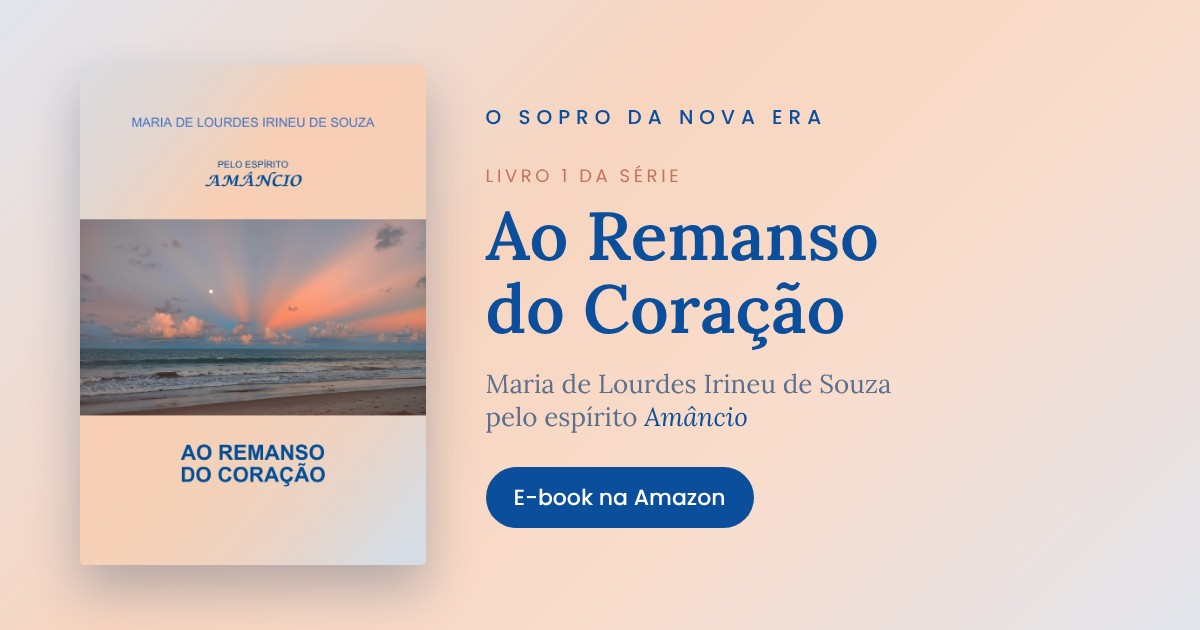
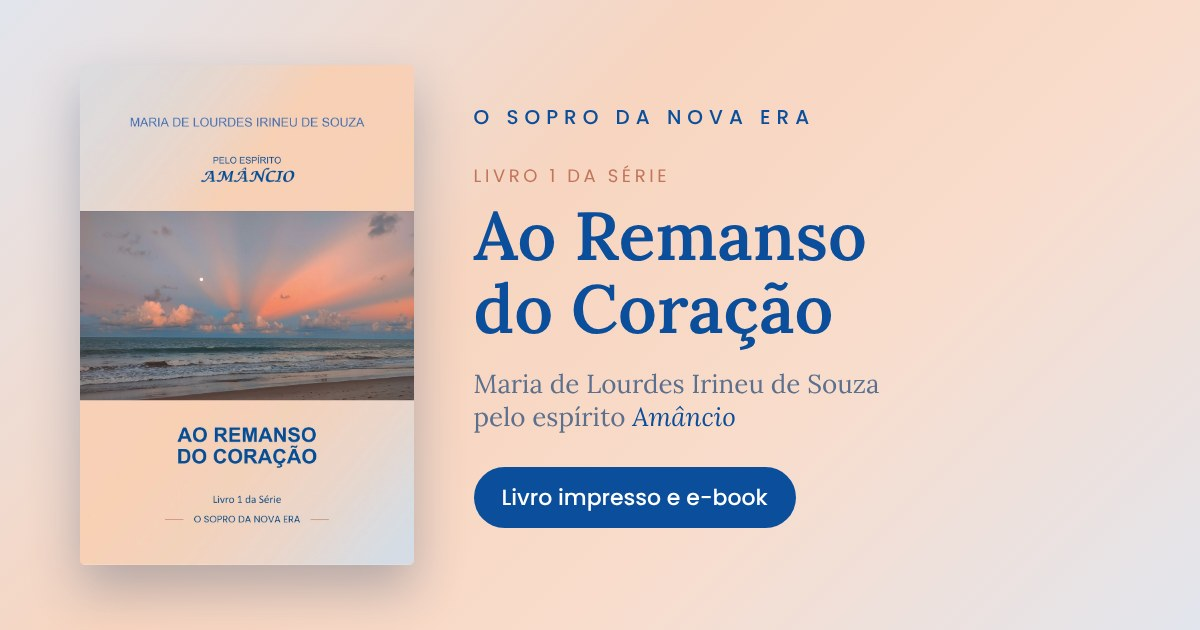
Nova capa com a série, botões do livro impresso, data na carta e ISBN do impresso
Claude-Session: https://claude.ai/code/session_01P1PDabk3PEquuoidtjMPVc

diff --git a/index.html b/index.html
@@ -4,11 +4,11 @@
 <meta charset="utf-8">
 <meta name="viewport" content="width=device-width, initial-scale=1, viewport-fit=cover">
 <title>O Sopro da Nova Era · Ao Remanso do Coração</title>
-<meta name="description" content="Ao Remanso do Coração, livro 1 da série psicografada O Sopro da Nova Era, de Maria de Lourdes Irineu de Souza, pelo espírito Amâncio. E-book disponível na Amazon.">
+<meta name="description" content="Ao Remanso do Coração, livro 1 da série psicografada O Sopro da Nova Era, de Maria de Lourdes Irineu de Souza, pelo espírito Amâncio. Livro impresso no Clube de Autores e na Estante Virtual, e e-book na Amazon.">
 <!-- Prévia do link no WhatsApp e redes -->
 <meta property="og:type" content="book">
 <meta property="og:title" content="Ao Remanso do Coração · O Sopro da Nova Era">
-<meta property="og:description" content="Livro 1 da série psicografada, pelo espírito Amâncio. E-book disponível na Amazon.">
+<meta property="og:description" content="Livro 1 da série psicografada, pelo espírito Amâncio. Livro impresso e e-book já disponíveis.">
 <meta property="og:image" content="https://osoprodanovaera.com.br/og.jpg">
 <meta property="og:image:width" content="1200">
 <meta property="og:image:height" content="630">
@@ -32,12 +32,21 @@
   "url": "https://osoprodanovaera.com.br/",
   "isPartOf": {"@type": "BookSeries", "name": "O Sopro da Nova Era"},
   "position": 1,
-  "workExample": {
-    "@type": "Book",
-    "bookFormat": "https://schema.org/EBook",
-    "isbn": "9786501738314",
-    "potentialAction": {"@type": "ReadAction", "target": "https://www.amazon.com.br/dp/B0FY4L74NP"}
-  }
+  "workExample": [
+    {
+      "@type": "Book",
+      "bookFormat": "https://schema.org/Paperback",
+      "isbn": "9786502439708",
+      "numberOfPages": 233,
+      "url": "https://clubedeautores.com.br/livro/ao-remanso-do-coracao"
+    },
+    {
+      "@type": "Book",
+      "bookFormat": "https://schema.org/EBook",
+      "isbn": "9786501738314",
+      "url": "https://www.amazon.com.br/dp/B0FY4L74NP"
+    }
+  ]
 }
 </script>
 
@@ -79,6 +88,16 @@ h1{font-family:var(--display);font-weight:600;color:var(--mar);font-size:clamp(2
   box-shadow:0 10px 24px rgba(11,79,156,.25);transition:transform .15s,box-shadow .15s}
 .cta:hover{transform:translateY(-2px);box-shadow:0 14px 28px rgba(11,79,156,.3)}
 .cta:focus-visible{outline:3px solid var(--coral);outline-offset:3px}
+.comprar{display:grid;gap:1.1rem;margin-top:2rem;justify-items:center}
+.comprar .grupo{display:grid;gap:.55rem;justify-items:center}
+.comprar .rotulo-g{font-family:var(--util);font-size:.75rem;letter-spacing:.2em;text-transform:uppercase;color:var(--coral)}
+.comprar .botoes{display:flex;flex-wrap:wrap;gap:.6rem;justify-content:center}
+.comprar .cta{margin-top:0;min-width:12rem;justify-content:center}
+.cta.sec{background:transparent;color:var(--mar);box-shadow:inset 0 0 0 1.5px var(--mar)}
+.cta.sec:hover{background:rgba(11,79,156,.07);box-shadow:inset 0 0 0 1.5px var(--mar)}
+.livro .comprar{justify-items:start}
+.livro .comprar .grupo{justify-items:start}
+.livro .comprar .botoes{justify-content:flex-start}
 .nota-cta{display:block;margin-top:.7rem;font-family:var(--util);font-size:.82rem;color:var(--suave)}
 section{padding-block:3rem}
 h2{font-family:var(--display);font-weight:500;font-style:italic;color:var(--mar);font-size:clamp(1.7rem,4.5vw,2.2rem);margin:0 0 1.5rem;text-wrap:balance}
@@ -131,8 +150,15 @@ footer{text-align:center;font-family:var(--util);font-size:.8rem;color:var(--sua
   <p class="rotulo">Livro 1 da série</p>
   <h1>Ao Remanso do Coração</h1>
   <p class="autoria">Maria de Lourdes Irineu de Souza · pelo espírito <em>Amâncio</em></p>
-  <a class="cta" href="https://www.amazon.com.br/dp/B0FY4L74NP" target="_blank" rel="noopener">Comprar o e-book na Amazon</a>
-  <span class="nota-cta">Leia no Kindle, no celular, no tablet ou no computador</span>
+  <div class="comprar">
+    <div class="grupo"><span class="rotulo-g">Livro impresso</span>
+      <div class="botoes">
+        <a class="cta" href="https://clubedeautores.com.br/livro/ao-remanso-do-coracao" target="_blank" rel="noopener">Clube de Autores</a>
+        <a class="cta" href="https://www.estantevirtual.com.br/livro/ao-remanso-do-coracao-TJ5-5781-000" target="_blank" rel="noopener">Estante Virtual</a>
+      </div></div>
+    <div class="grupo"><span class="rotulo-g">E-book</span>
+      <div class="botoes"><a class="cta sec" href="https://www.amazon.com.br/dp/B0FY4L74NP" target="_blank" rel="noopener">Amazon (Kindle)</a></div></div>
+  </div>
 </div>
 
 <section class="wrap" id="carta">
@@ -149,13 +175,13 @@ footer{text-align:center;font-family:var(--util);font-size:.8rem;color:var(--sua
     <hr class="sep">
     <p>Com essas palavras o espírito Amâncio apresenta <b class="t">O SOPRO DA NOVA ERA</b>, uma série psicografada de cinco livros, em que nos leva a refletir sobre as perspectivas individuais e coletivas do novo tempo, pautado nas transformações morais e evolutivas, no amor, na fé, na compreensão e na caridade, valores que orientam o caminho da fraternidade com Jesus.</p>
     <p><b class="t">AO REMANSO DO CORAÇÃO</b>, o primeiro livro da série, vem falar de amor e esperança. Convidar à renovação. Recordar o Mestre, suas palavras, ensinamentos, o seu impacto na transformação interior de cada ser, nos apontar novos caminhos, novo tempo.</p>
-    <p>Finalmente já está disponível em formato e-book.</p>
+    <p>Finalmente já está disponível em formato e-book e como livro físico.</p>
     <p>Os outros quatro volumes serão publicados a seguir.</p>
     <p>Serei grata se puderem ajudar a divulgar. Todo recurso obtido será destinado a Núcleos e atividades de estudo, evangelização, assistência e divulgação da doutrina espírita.</p>
     <p>E agradeço, especialmente, o incentivo e o apoio que tenho recebido para seguir nesta jornada.</p>
     <p class="citacao">“No caminho do amor a esperança é estrela-guia”, como diz Amâncio, e “uma obra de amor deve fluir com a certeza de que é o amor que flui por onde passar.”</p>
     <p>Que Jesus nos ilumine e possamos continuar a tarefa de amor e luz.</p>
-    <p style="margin-bottom:.2em"><em>João Pessoa,</em></p>
+    <p style="margin-bottom:.2em"><em>João Pessoa, 6 de novembro de 2026.</em></p>
     <p class="assina">Maria de Lourdes Irineu de Souza</p>
   </div>
 </section>
@@ -169,9 +195,18 @@ footer{text-align:center;font-family:var(--util);font-size:.8rem;color:var(--sua
       <p><i>Ao Remanso do Coração</i> vem falar de amor e esperança, convidar à renovação e a seguir com fé e confiança no coração, nesse caminho de luz para um novo tempo, uma Nova Era de amor e fraternidade.</p>
       <div class="ficha">
         <span>Psicografia · Literatura espírita</span>
+        <span>Livro impresso · 16 × 23 cm · 233 páginas · ISBN 978-65-02-43970-8</span>
         <span>E-book Kindle · ISBN 978-65-01-73831-4</span>
       </div>
-      <a class="cta" href="https://www.amazon.com.br/dp/B0FY4L74NP" target="_blank" rel="noopener">Ver na Amazon</a>
+      <div class="comprar">
+    <div class="grupo"><span class="rotulo-g">Livro impresso</span>
+      <div class="botoes">
+        <a class="cta" href="https://clubedeautores.com.br/livro/ao-remanso-do-coracao" target="_blank" rel="noopener">Clube de Autores</a>
+        <a class="cta" href="https://www.estantevirtual.com.br/livro/ao-remanso-do-coracao-TJ5-5781-000" target="_blank" rel="noopener">Estante Virtual</a>
+      </div></div>
+    <div class="grupo"><span class="rotulo-g">E-book</span>
+      <div class="botoes"><a class="cta sec" href="https://www.amazon.com.br/dp/B0FY4L74NP" target="_blank" rel="noopener">Amazon (Kindle)</a></div></div>
+  </div>
     </div>
   </div>
 </section>
@@ -179,7 +214,7 @@ footer{text-align:center;font-family:var(--util);font-size:.8rem;color:var(--sua
 <section class="wrap" id="colecao">
   <h2>A coleção</h2>
   <ol class="colecao">
-    <li class="vol ativo"><div class="capa-mini" aria-hidden="true"></div><div><strong>Ao Remanso do Coração</strong>Volume 1 · disponível</div></li>
+    <li class="vol ativo"><div class="capa-mini" aria-hidden="true"></div><div><strong>Ao Remanso do Coração</strong>Volume 1 · impresso e e-book</div></li>
     <li class="vol"><div class="capa-mini" aria-hidden="true">2</div><strong>Volume 2</strong>em breve</li>
     <li class="vol"><div class="capa-mini" aria-hidden="true">3</div><strong>Volume 3</strong>em breve</li>
     <li class="vol"><div class="capa-mini" aria-hidden="true">4</div><strong>Volume 4</strong>em breve</li>
